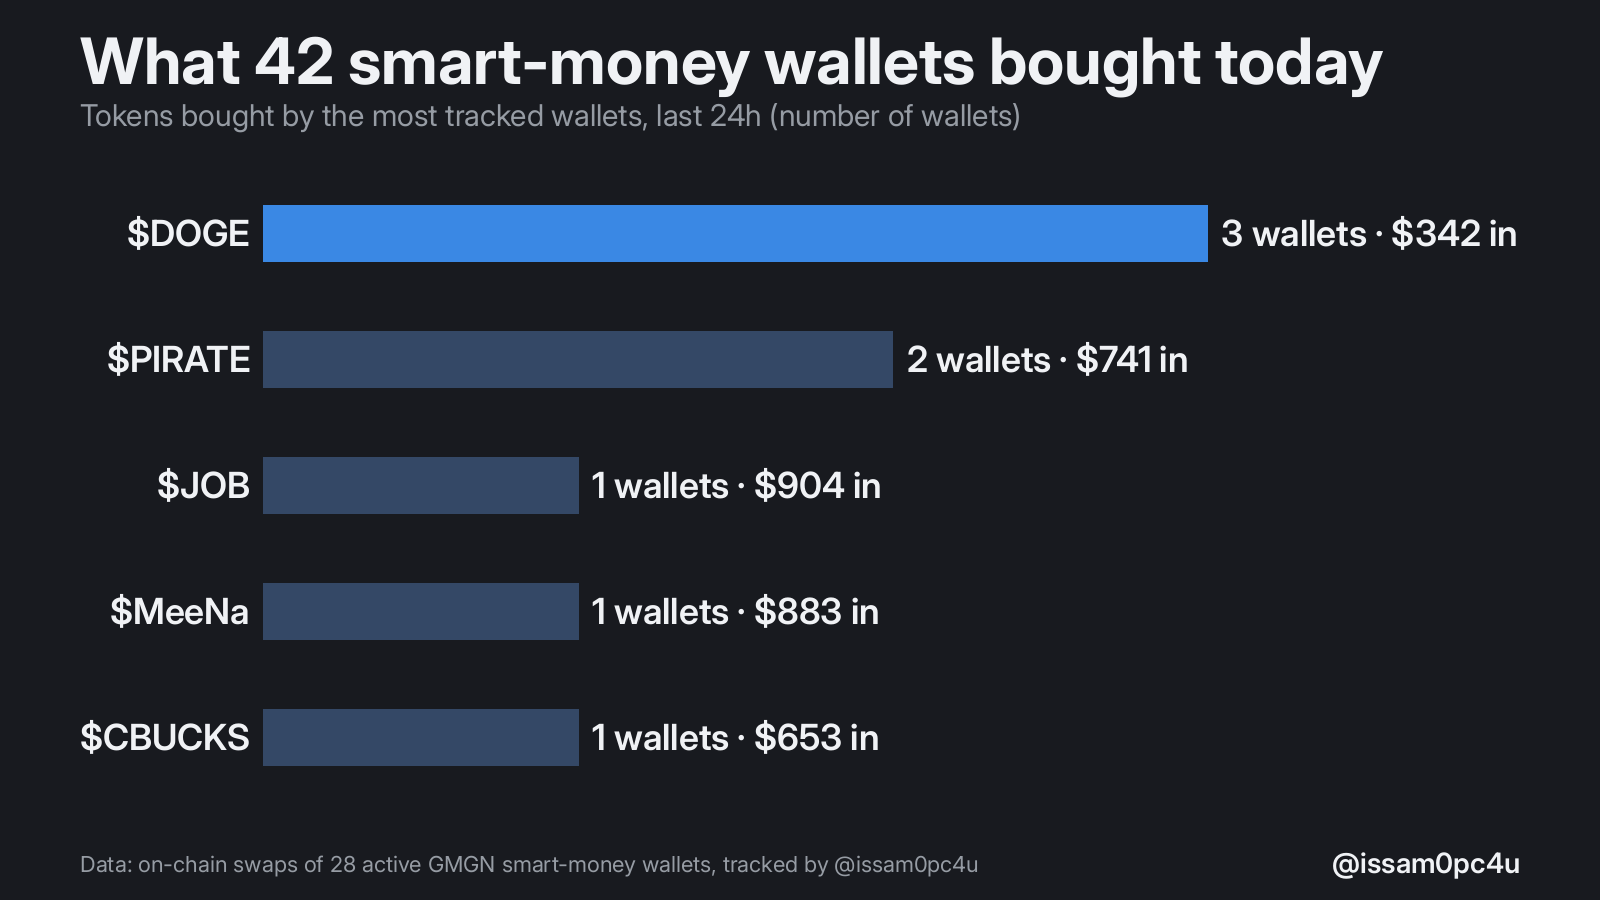
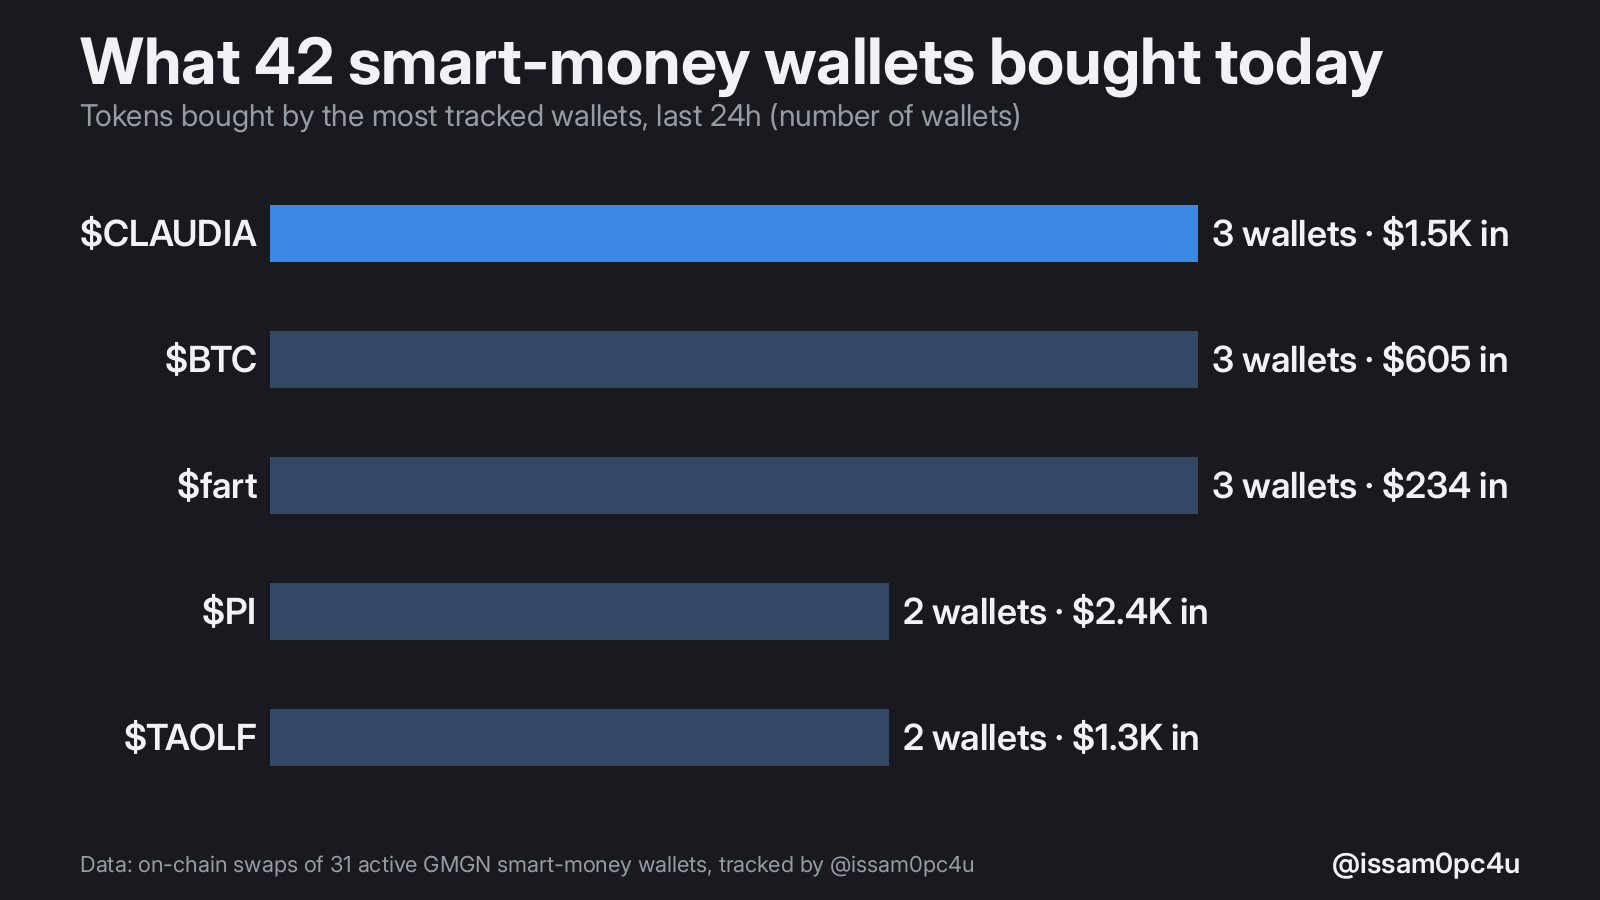
smartmoney report: 2026-11-08 21:50

diff --git a/queue/2026-11-08-2300-smartmoney-report.md b/queue/2026-11-08-2300-smartmoney-report.md
@@ -1,0 +1,35 @@
+---
+post_at: 2026-11-08 23:00
+status: ready
+pillar: data
+image: charts/2026-11-08-smartmoney.png
+queued_at: 2026-11-08 21:50
+sources:
+  - https://github.com/issambkkal/x-meme-desk/tree/main/smartmoney
+  - https://gmgn.ai/trade?chain=sol&tab=smart_degen
+---
+I track 42 of the most profitable meme coin wallets on Solana. Here's what they did in the last 24h 🧵
+
+944 buys, 970 sells, 40 different tokens.
+
+Smart money in: $18.9K. Out: $23.6K.
+===
+Most bought: $CLAUDIA
+
+3 tracked wallets bought it, $1.5K in total. Market cap $3.1K, -91% in 24h.
+
+3 of them have already sold some. Watch that number.
+===
+Most dumped: $BTC
+
+$3.3K sold by 5 tracked wallets. -94% in 24h.
+
+When the smart money leaves, the late buyers become the exit.
+===
+The lesson from 24h of their trades: they buy small, take profit fast, and dump losers within hours.
+
+Most of their 'wins' are trades, not holds.
+
+Research, not advice.
+===
+I post every smart-money signal and every trap the moment the bot sees it, free, in my Telegram group imbi MOON. Link is in my pinned post.
